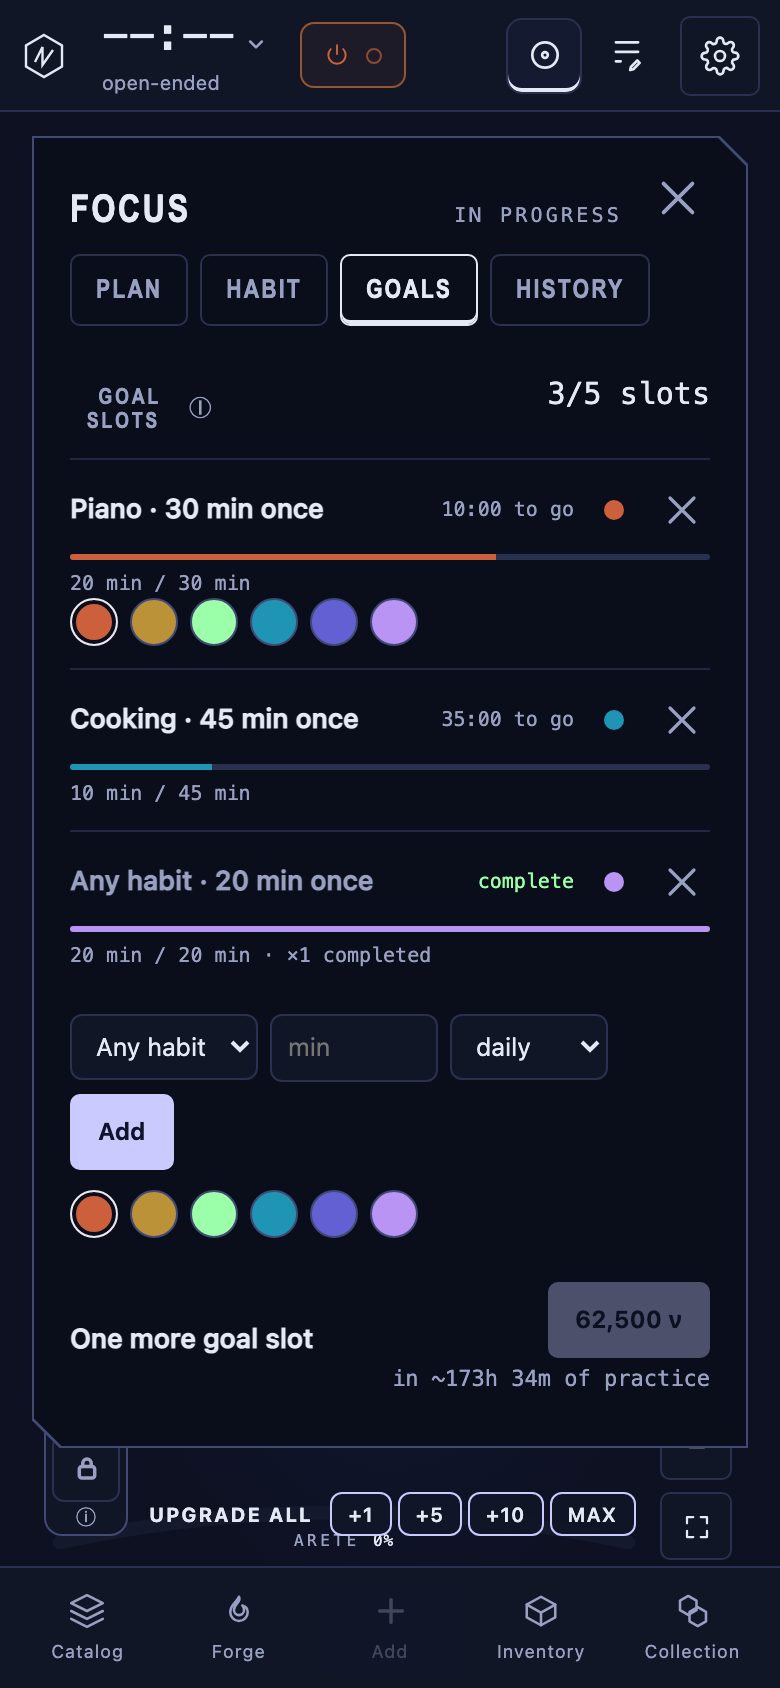
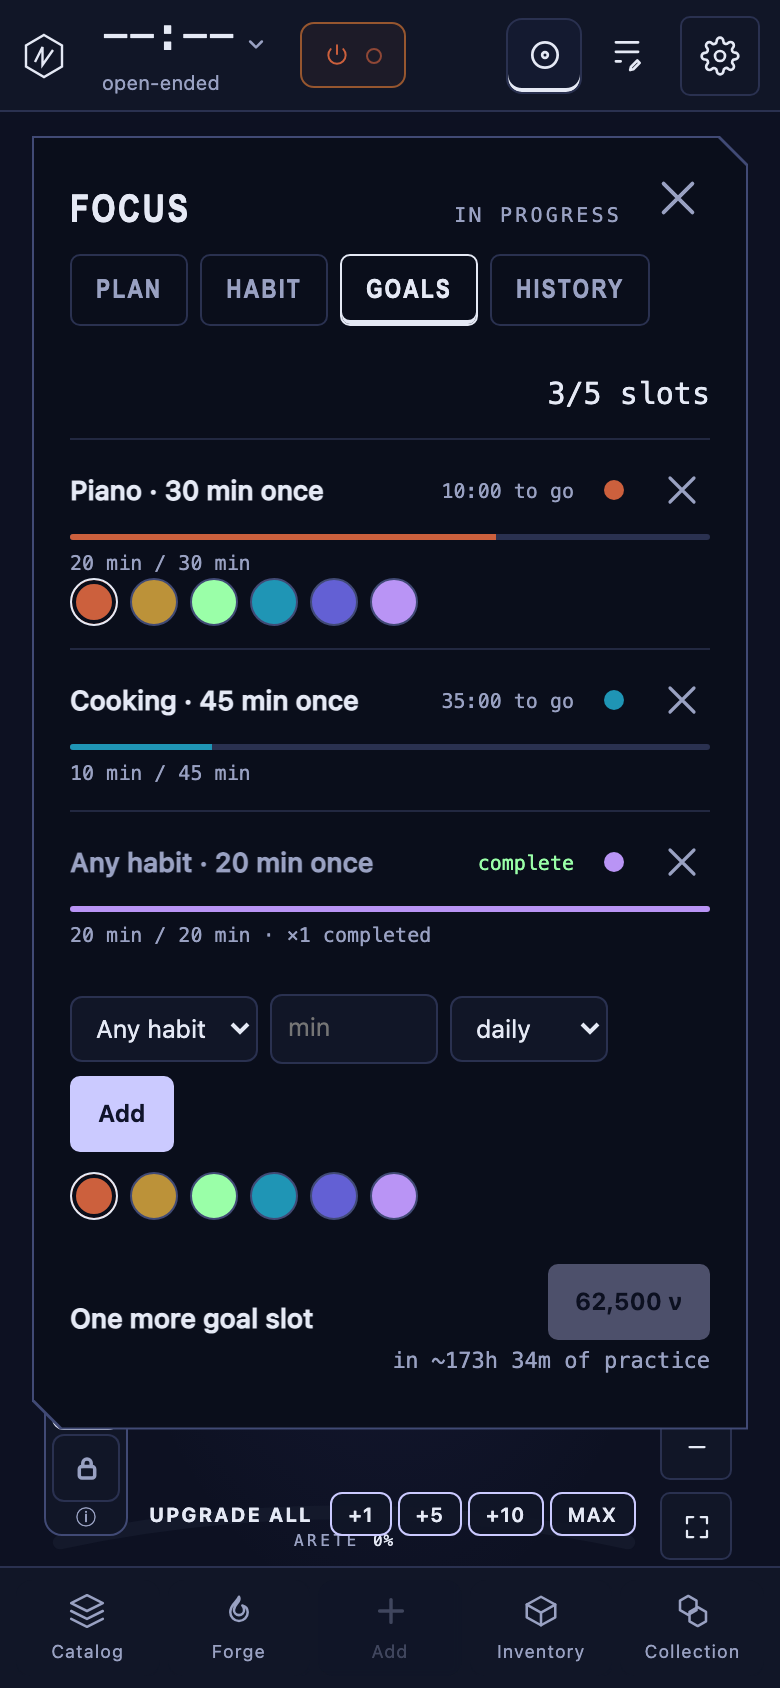
Cut the GOAL SLOTS tooltip (#312)
The slots read already says what slots do — 3/5 is the limit and the
occupancy in one figure. The ⓘ restated it, so the tooltip dies per the
disclosure doctrine; the sheet evidence is recaptured without it.

diff --git a/src/ui/focus.ts b/src/ui/focus.ts
@@ -588,12 +588,6 @@ function goalsFaceHtml(app: App, projected: ReturnType<typeof displayedRates>): 
     </div>`;
   return `<div class="folio-rows">
     <div class="folio-row">
-      ${keyTip(
-        "focus-slots-tip",
-        "Goal slots — the tracking",
-        "Goal slots",
-        "Available slots limit tracked goals. Completion is the tracking — each completion credits a Goal Generator's reserve.",
-      )}
       <span class="folio-main"><span class="folio-fig mono" id="focus-slots-read">${state.goals.length}/${capacity} slots</span>${upgrade ? "" : `<span class="folio-sub">locked for this session</span>`}</span>
     </div>
     ${orderedGoals.map(goalRow).join("")}
